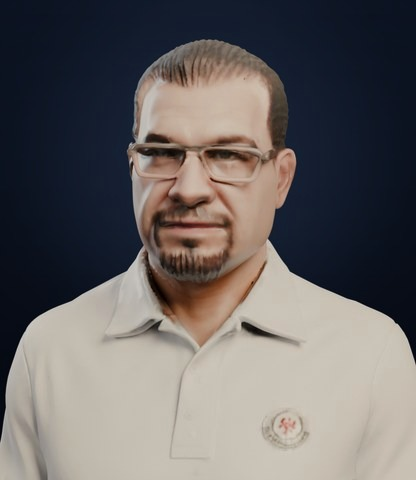
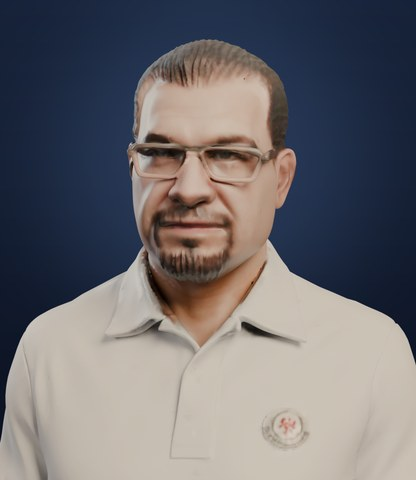
Marco re-rendered from his scan at higher res/samples with cubic texture filtering and albedo/normal denoise; people_post --grade keeps his toned-down warm look
Claude-Session: https://claude.ai/code/session_01NPxWDMmDr35mH1YXpri3Ec

diff --git a/tools/marco_glb.py b/tools/marco_glb.py
@@ -29,7 +29,7 @@ import marco_rig  # noqa: E402  proximity-weighted skinning: arms down / hand at
 GLB = "/mnt/project-files/human+figure+3d+model.glb"
 OUT = sys.argv[1]
 PREVIEW = len(sys.argv) > 2
-SAMPLES = 16 if PREVIEW else 128
+SAMPLES = 16 if PREVIEW else 200
 os.makedirs(OUT, exist_ok=True)
 
 bpy.ops.wm.read_factory_settings(use_empty=True)
@@ -73,6 +73,13 @@ sc.render.engine = "CYCLES"
 sc.cycles.device = "CPU"
 sc.cycles.samples = SAMPLES
 sc.cycles.use_denoising = True
+sc.cycles.denoising_input_passes = "RGB_ALBEDO_NORMAL"   # keeps the fabric texture through the denoiser
+sc.cycles.denoising_prefilter = "ACCURATE"
+sc.cycles.adaptive_threshold = 0.008
+for m in bpy.data.materials:   # smooth texel filtering on the scan's maps: no blocky, blotchy cloth up close
+    for n in (m.node_tree.nodes if m.use_nodes else []):
+        if n.type == "TEX_IMAGE":
+            n.interpolation = "Cubic"
 sc.render.film_transparent = True
 sc.view_settings.view_transform = "AgX"
 sc.view_settings.look = "AgX - Medium High Contrast"
@@ -128,14 +135,14 @@ so.rotation_euler = (math.radians(40), 0, math.radians(-150))
 sc.collection.objects.link(so)
 # full body: eye-level-ish camera, slight three-quarter (people3d.py's framing); arms relaxed at his sides
 set_pose(RELAXED, head_roll=2.5)
-shot("marco_body.png", (680, 1100), 2.05, 0.93, 13, ortho_up=0.35)
+shot("marco_body.png", (1020, 1650), 2.05, 0.93, 13, ortho_up=0.35)
 ground.hide_render = True
 # hero: head to mid-thigh, slight three-quarter, one hand at his pocket, head a touch tilted
 set_pose(HERO, head_roll=3.5, head_pitch=1.5)
-shot("marco_hero.png", (1100, 1500), 1.32, TOP + 0.03 - 0.66, 15)
+shot("marco_hero.png", (1320, 1800), 1.32, TOP + 0.03 - 0.66, 15)
 # portrait: head and shoulders, face centred, same span as people3d.py portraits
 set_pose(RELAXED, head_roll=2.5)
-shot("marco_portrait.png", (720, 900), 0.62, TOP + 0.05 - 0.31, 10)
+shot("marco_portrait.png", (960, 1200), 0.62, TOP + 0.05 - 0.31, 10)
 # faces: neutral; happy = chin up, mouth corners lifted, warmer key; angry = brows down and knit, head down, cooler key
 key = [o for o in sc.objects if o.type == "LIGHT" and o.data.type == "AREA"][0]
 for mood, head, col, energy in (("neutral", dict(head_roll=2.5), (1.0, 0.9, 0.76), 1250),
@@ -143,4 +150,4 @@ for mood, head, col, energy in (("neutral", dict(head_roll=2.5), (1.0, 0.9, 0.76
                                 ("angry", dict(head_roll=-1.0, head_pitch=-7.0, head_yaw=-3.0), (0.9, 0.9, 0.95), 1100)):
     set_pose(RELAXED, mood, **head)
     key.data.color, key.data.energy = col, energy
-    shot("marco_face_%s.png" % mood, (384, 384), 0.34, TOP - 0.13 - (0.01 if mood == "angry" else 0.0), 10)
+    shot("marco_face_%s.png" % mood, (448, 448), 0.34, TOP - 0.13 - (0.01 if mood == "angry" else 0.0), 10)

diff --git a/tools/people_post.py b/tools/people_post.py
@@ -9,6 +9,8 @@ Usage:  python3 tools/people_post.py <render_dir> <assets/people> [src_pid=dst_p
 With no pairs every pid in the render dir is copied under its own name. Missing renders are skipped, so a
 portrait-only render (PARTS=portrait) only updates portraits.
 
+  --grade r,g,b             multiplies every render's colour first (Marco's scan renders: --grade 0.83,0.80,0.76
+                            keeps him toned down and warm like the shipped art)
   --dialogue <assets_dir>   also writes <assets_dir>/portrait_<pid>.jpg for marco and maruchan: the portrait on a dark
                             panel-coloured backdrop (the dialogue box loads these by name).
 """
@@ -110,7 +112,25 @@ def main():
         i = args.index("--dialogue")
         dialogue = args[i + 1]
         del args[i:i + 2]
+    grade = None
+    if "--grade" in args:
+        i = args.index("--grade")
+        grade = [float(v) for v in args[i + 1].split(",")]
+        del args[i:i + 2]
     src, out = args[0], args[1]
+    if grade:
+        import tempfile
+        tmp = tempfile.mkdtemp()
+        for f in os.listdir(src):
+            if f.endswith(".png"):
+                im = Image.open(os.path.join(src, f)).convert("RGBA")
+                r, g, b, a = im.split()
+                r, g, b = [c.point(lambda v, k=k: min(255, round(v * k))) for c, k in zip((r, g, b), grade)]
+                Image.merge("RGBA", (r, g, b, a)).save(os.path.join(tmp, f))
+            elif f.endswith(".json"):
+                import shutil
+                shutil.copy(os.path.join(src, f), tmp)
+        src = tmp
     pairs = [a.split("=") for a in args[2:]]
     if not pairs:
         ids = sorted({f.rsplit("_", 1)[0] for f in os.listdir(src) if f.endswith("_portrait.png")} |
